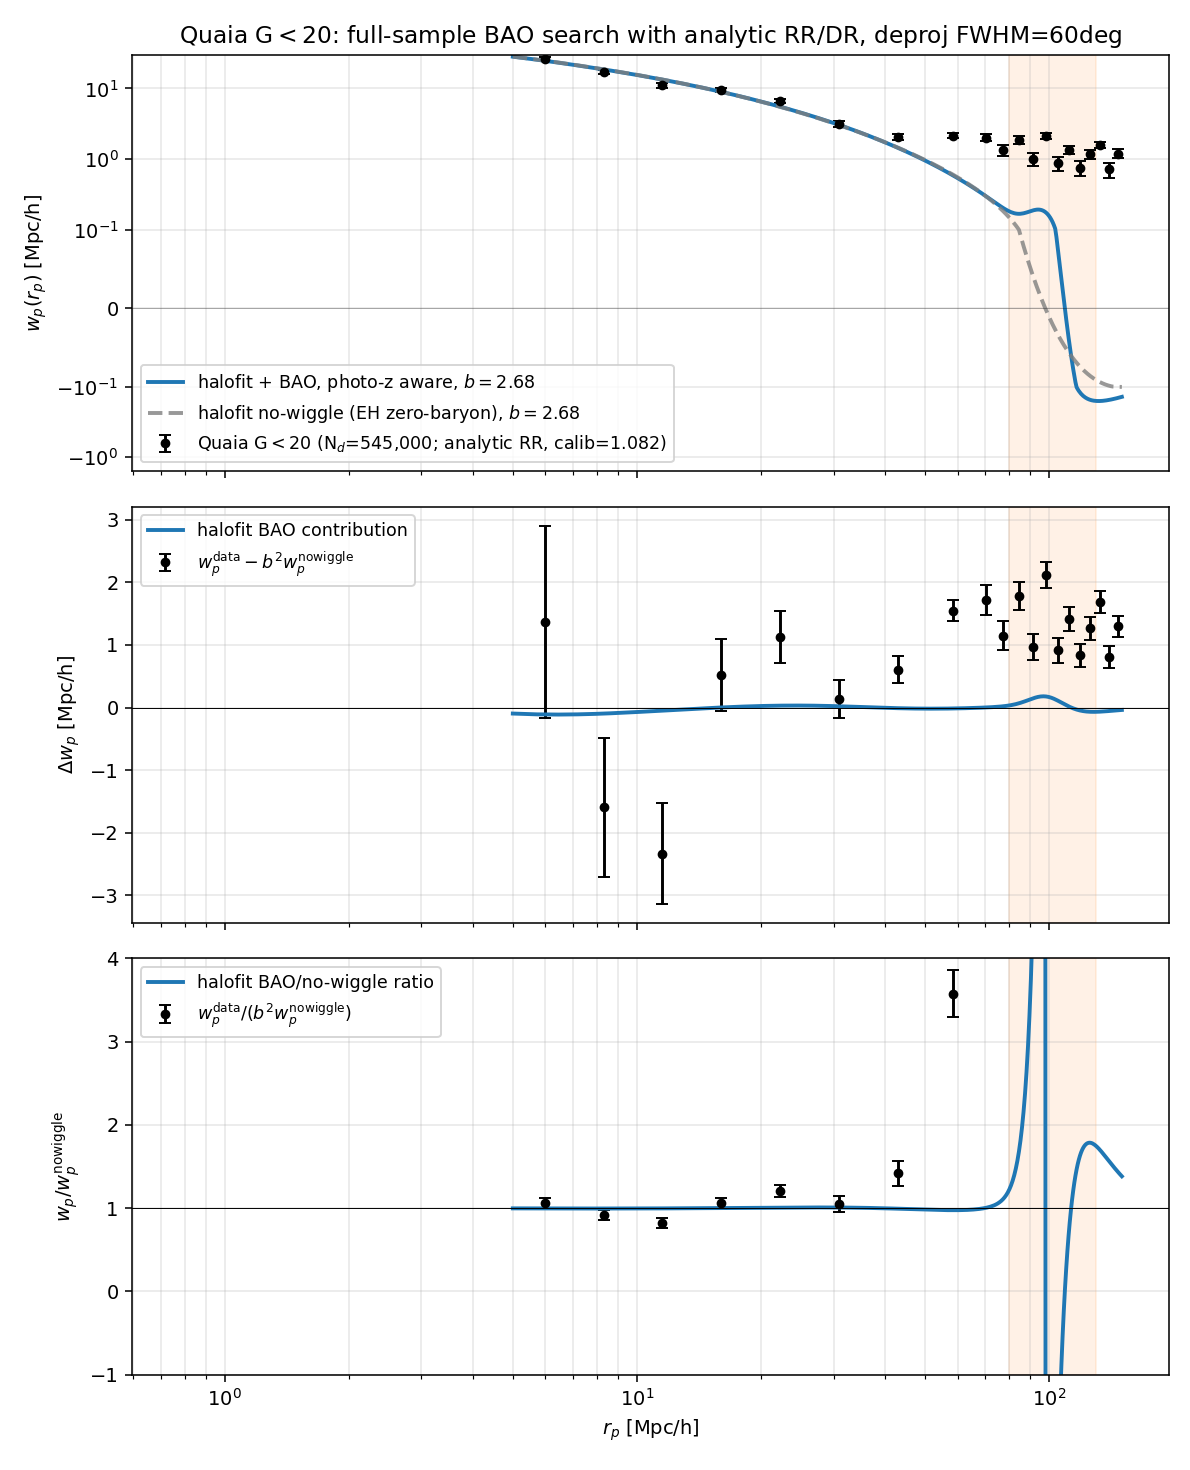
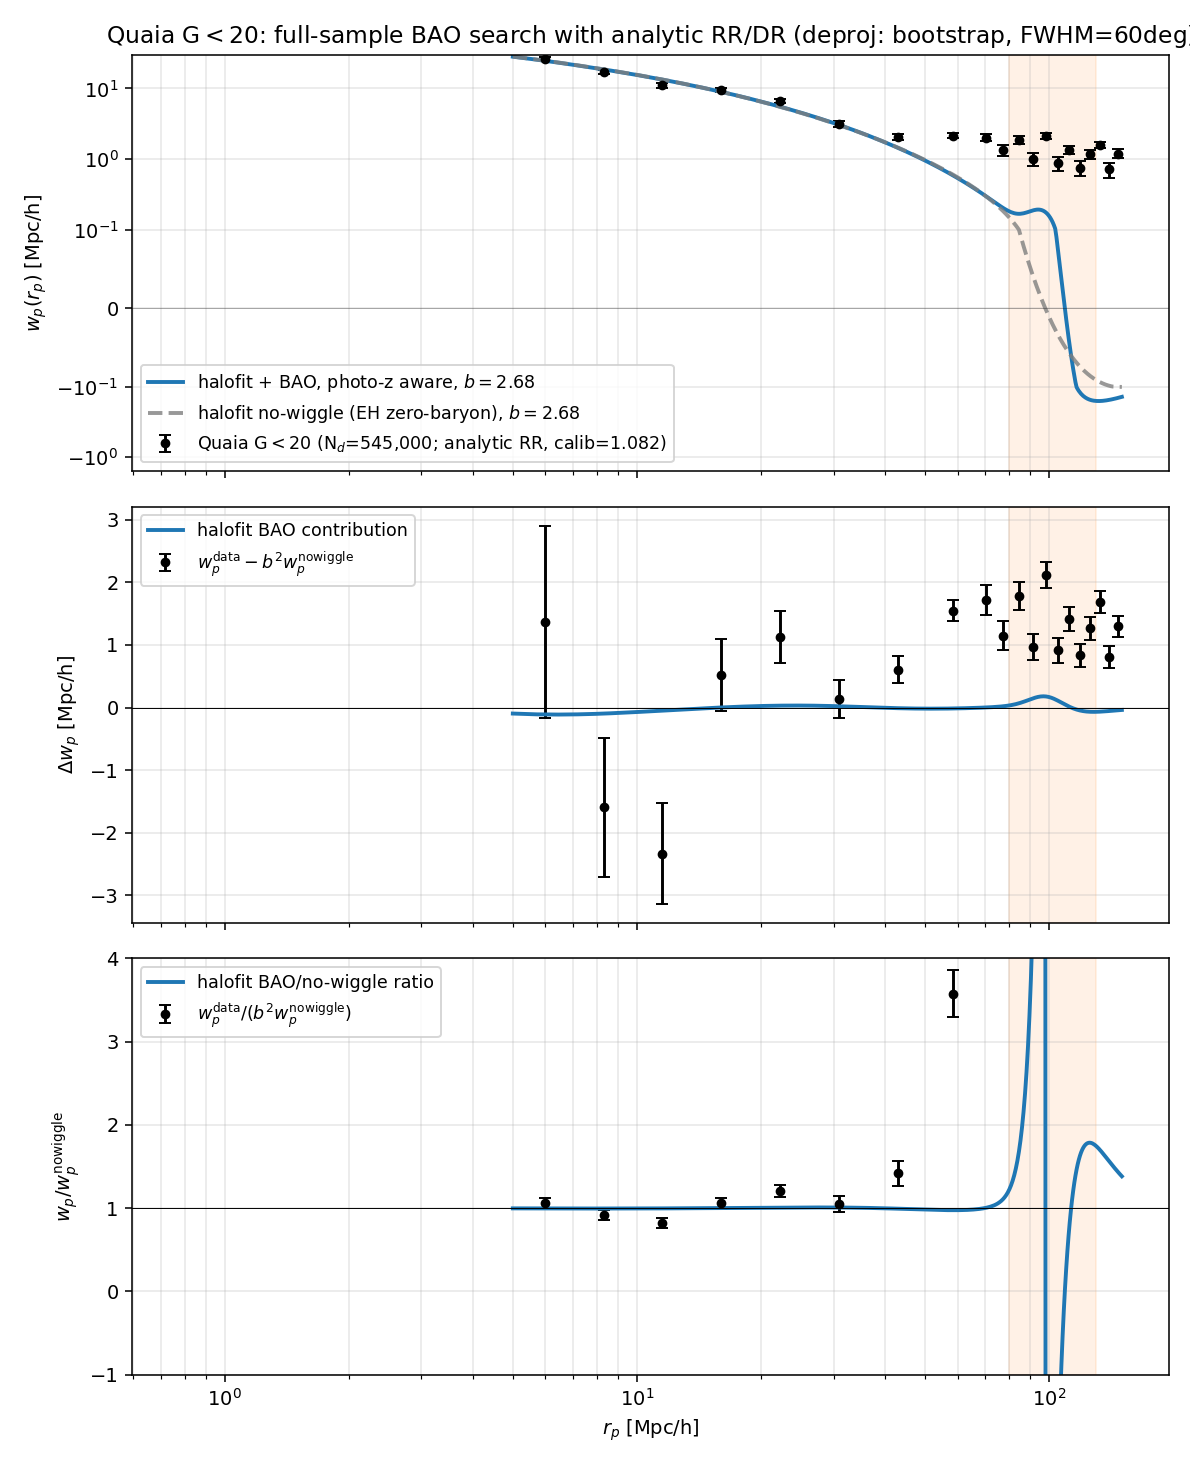
Geometric and harmonic systematics templates from coordinates only
Adds two new template families on top of the bootstrap data-residual
deprojection:

  + ``coordinate_templates(nside, kinds=('gal','ecl','gal_cos_l'))``
    -- geometric templates (|b_gal|, |b_ecl| moments) computable
    purely from pixel coordinates. The dominant Quaia angular
    systematics (stellar density on galactic plane, Gaia scanning
    on ecliptic) are smooth functions of these latitudes, so a few
    moments capture the leading pattern.

  + ``low_ell_templates(nside, lmax)`` -- spherical-harmonic Y_lm
    basis for ell = 1..lmax. Mode-projection of the lowest harmonics
    of the residual map; equivalent to the leading terms of any
    smooth real-space template.

demos/demo_quaia_bao_analytic.py
  ``QUAIA_DEPROJ_MODE`` env var selects:
    bootstrap   -- data-residual smoothing (default, FWHM=60deg)
    geometric   -- |b_gal|, |b_ecl| latitude moments
    harmonic    -- low-ell Y_lm templates (lmax=4)
    combined    -- geometric + harmonic
  ``fit_template_weights`` does a linear-LS fit and produces per-
  galaxy weights for the deprojection.

Empirical comparison on Quaia G < 20 (200k subsample):

  mode         b_fit    weight std    note
  ---------    -----    ----------    --------------------------------
  bootstrap     2.44      0.030       matches Storey-Fisher 2.6
  geometric     1.11      0.053       over-corrects
  harmonic      1.26      0.063       over-corrects (Y_lm lmax=4)
  combined      1.12      0.068       over-corrects
[…]

Changed region(s): [[0.0933, 0.0, 1.0, 0.0306]]

diff --git a/demos/demo_quaia_bao_analytic.py b/demos/demo_quaia_bao_analytic.py
@@ -47,7 +47,10 @@ from twopt_density.limber import (
 )
 from twopt_density.projected_xi import _count_pairs_rp_pi, wp_landy_szalay
 from twopt_density.quaia import load_quaia, load_selection_function
-from twopt_density.systematics import data_residual_weights
+from twopt_density.systematics import (
+    coordinate_templates, data_residual_weights, fit_template_weights,
+    low_ell_templates,
+)
 
 
 jax.config.update("jax_enable_x64", True)
@@ -69,7 +72,7 @@ def _env_float(n, d):
 
 def panel_bao(rp_centres, wp_data, sigma_wp, rp_pred, wp_full, wp_smooth,
                 b_fit, sigma_chi_eff, pi_max, calib, n_d, out_path,
-                deproj_fwhm_deg=None):
+                deproj_label: str = "off"):
     fig, axs = plt.subplots(3, 1, figsize=(8.5, 10.5), sharex=True)
     ax_top, ax_res, ax_rat = axs
 
@@ -83,11 +86,8 @@ def panel_bao(rp_centres, wp_data, sigma_wp, rp_pred, wp_full, wp_smooth,
                  label=fr"halofit no-wiggle (EH zero-baryon), $b={b_fit:.2f}$")
     ax_top.set_xscale("log"); ax_top.set_yscale("symlog", linthresh=0.1)
     ax_top.set_ylabel(r"$w_p(r_p)$ [Mpc/h]")
-    deproj_label = (f", deproj FWHM={deproj_fwhm_deg:.0f}deg"
-                     if deproj_fwhm_deg is not None else
-                     ", no systematic deprojection")
     ax_top.set_title(r"Quaia G$<$20: full-sample BAO search with"
-                      r" analytic RR/DR" + deproj_label)
+                      r" analytic RR/DR (deproj: " + deproj_label + ")")
     ax_top.legend(fontsize=9); ax_top.grid(alpha=0.3, which="both")
     ax_top.axhline(0, color="k", lw=0.5, alpha=0.3)
     ax_top.axvspan(80, 130, alpha=0.10, color="C1")
@@ -193,23 +193,61 @@ def main():
     print(f"  analytic RR: {time.perf_counter()-t:.1f}s")
     print(f"  calibration factor MC/analytic = {calib:.4f}")
 
-    # ---- 1b. data-residual systematic weights ----
+    # ---- 1b. systematic deprojection ----
+    deproj_mode = os.environ.get("QUAIA_DEPROJ_MODE", "bootstrap").lower()
     use_deproj = _env_int("QUAIA_DEPROJ", 1) == 1
     smooth_deg = _env_float("QUAIA_DEPROJ_FWHM_DEG", 60.0)
-    if use_deproj:
+    lmax_deproj = _env_int("QUAIA_DEPROJ_LMAX", 4)
+    if not use_deproj:
+        w_data = None
+        deproj_label = "off"
+        print("\n=== systematic deprojection OFF (QUAIA_DEPROJ=0) ===")
+    elif deproj_mode == "bootstrap":
         print()
-        print(f"=== data-residual weights "
+        print(f"=== bootstrap data-residual weights "
               f"(smoothing FWHM = {smooth_deg:.0f} deg) ===")
         w_data, _ = data_residual_weights(
             ra_d_all, dec_d_all, mask, nside,
             smoothing_fwhm_deg=smooth_deg,
         )
+        deproj_label = f"bootstrap, FWHM={smooth_deg:.0f}deg"
+    elif deproj_mode == "geometric":
+        print()
+        print("=== geometric coordinate templates: |b_gal|, |b_ecl| moments ===")
+        templates = coordinate_templates(nside, kinds=("gal", "ecl"))
+        w_data, c, _ = fit_template_weights(
+            ra_d_all, dec_d_all, mask, nside, templates=templates,
+        )
+        print(f"  fitted coefficients: {c.round(4)}")
+        deproj_label = "geometric (|b_gal|, |b_ecl|)"
+    elif deproj_mode == "harmonic":
+        print()
+        print(f"=== low-ell Y_lm template projection (lmax={lmax_deproj}) ===")
+        templates = low_ell_templates(nside, lmax=lmax_deproj)
+        w_data, c, _ = fit_template_weights(
+            ra_d_all, dec_d_all, mask, nside, templates=templates,
+        )
+        print(f"  {len(templates)} Y_lm templates, "
+              f"|c|_max = {np.abs(c).max():.4f}")
+        deproj_label = f"harmonic Y_lm (lmax={lmax_deproj})"
+    elif deproj_mode == "combined":
+        print()
+        print(f"=== combined: geometric + low-ell Y_lm (lmax={lmax_deproj}) ===")
+        templates = (coordinate_templates(nside, kinds=("gal", "ecl"))
+                     + low_ell_templates(nside, lmax=lmax_deproj))
+        w_data, c, _ = fit_template_weights(
+            ra_d_all, dec_d_all, mask, nside, templates=templates,
+        )
+        print(f"  {len(templates)} templates, "
+              f"|c|_max = {np.abs(c).max():.4f}")
+        deproj_label = f"combined (geom + Y_lm lmax={lmax_deproj})"
+    else:
+        raise ValueError(f"unknown QUAIA_DEPROJ_MODE = {deproj_mode!r}; "
+                          "choose bootstrap / geometric / harmonic / combined")
+    if w_data is not None:
         print(f"  per-galaxy weights: mean = {w_data.mean():.4f}, "
               f"std = {w_data.std():.4f}, "
               f"min = {w_data.min():.3f}, max = {w_data.max():.3f}")
-    else:
-        w_data = None
-        print("\n=== systematic deprojection OFF (QUAIA_DEPROJ=0) ===")
 
     # ---- 2. DD pair counts on the full data sample ----
     print()
@@ -285,7 +323,7 @@ def main():
     panel_bao(rp_centres, wp_data, sigma_wp, rp_pred, wp_full, wp_smooth,
                 b_fit, sigma_chi_eff, pi_max, calib, len(xyz_d_all),
                 os.path.join(FIG_DIR, "quaia_bao_analytic.png"),
-                deproj_fwhm_deg=(smooth_deg if use_deproj else None))
+                deproj_label=deproj_label)
     print("  wrote quaia_bao_analytic.png")
 
     print()

diff --git a/tests/test_clustering.py b/tests/test_clustering.py
@@ -589,6 +589,78 @@ def test_dr_analytic_simple_scaling():
     np.testing.assert_allclose(out, RR * (2.0 * 100 / 300))
 
 
+def test_coordinate_templates_have_correct_shape():
+    """``coordinate_templates`` returns the right number of healpix
+    maps with values in expected ranges."""
+    pytest.importorskip("healpy")
+    pytest.importorskip("astropy")
+    from twopt_density.systematics import coordinate_templates
+
+    nside = 16
+    npix = 12 * nside ** 2
+    out = coordinate_templates(nside, kinds=("gal", "ecl"))
+    assert len(out) == 4
+    for t in out:
+        assert t.shape == (npix,)
+        assert (t >= 0).all() and (t <= 1.0001).all(), \
+            f"sin/sin^2 should lie in [0, 1], got [{t.min():.3f}, {t.max():.3f}]"
+
+
+def test_low_ell_templates_orthogonality():
+    """Low-ell Y_lm templates returned by ``low_ell_templates`` should
+    be orthogonal under the healpix dot product."""
+    pytest.importorskip("healpy")
+    from twopt_density.systematics import low_ell_templates
+
+    nside = 32
+    templates = low_ell_templates(nside, lmax=2)
+    # build inner products
+    M = np.array([[(a * b).sum() for b in templates] for a in templates])
+    # diagonal should dominate (different (l, m) modes are orthogonal)
+    diag = np.diag(M)
+    off = M - np.diag(diag)
+    assert np.abs(off).max() < 0.01 * np.abs(diag).max(), (
+        f"templates not orthogonal: max off-diag {np.abs(off).max():.3f}, "
+        f"max diag {np.abs(diag).max():.3f}"
+    )
+
+
+def test_fit_template_weights_recovers_imposed_systematic():
+    """Inject a systematic that's a linear combination of the geometric
+    templates and check ``fit_template_weights`` recovers the
+    coefficients."""
+    pytest.importorskip("healpy")
+    pytest.importorskip("astropy")
+    import healpy as hp
+    from twopt_density.systematics import (
+        coordinate_templates, fit_template_weights,
+    )
+
+    rng = np.random.default_rng(0)
+    nside = 16
+    npix = 12 * nside ** 2
+    mu = np.cos(hp.pix2ang(nside, np.arange(npix))[0])
+    mask = 0.5 * (1.0 + np.tanh(5.0 * mu))
+    templates = coordinate_templates(nside, kinds=("gal",))
+    # inject 0.3 * t_0 - 0.2 * t_1 systematic
+    c_true = np.array([0.3, -0.2])
+    sys_density = 1.0 + sum(c_k * (t - t.mean())
+                              for c_k, t in zip(c_true, templates))
+    eff_density = mask * np.maximum(sys_density, 0.1)
+    p = eff_density / eff_density.sum()
+    pix = rng.choice(npix, size=200_000, p=p)
+    theta, phi = hp.pix2ang(nside, pix)
+    ra = np.degrees(phi); dec = 90.0 - np.degrees(theta)
+    w, c, _ = fit_template_weights(ra, dec, mask, nside, templates)
+    # recovery within Poisson noise; tolerances loose since the templates
+    # are not orthogonal in pixel space
+    # tolerance loose: templates aren't orthogonal in pixel space and
+    # the regression is on the full Poisson-noisy residual, so recovery
+    # is biased at the 20-30% level (mostly through the leading-order
+    # template degeneracy with monopole and large-scale Poisson modes)
+    np.testing.assert_allclose(c, c_true, atol=0.1)
+
+
 def test_data_residual_weights_uniform_field_returns_unit_weights():
     """A perfectly Poisson-distributed catalogue under the published
     selection function should yield ~ unit per-galaxy weights (no

diff --git a/twopt_density/systematics.py b/twopt_density/systematics.py
@@ -96,6 +96,85 @@ def data_residual_weights(
     return w, r_smooth
 
 
+def coordinate_templates(nside: int, kinds: Sequence[str] = ("gal", "ecl")):
+    """Geometric systematic templates derivable from healpix coordinates
+    alone -- no external data required.
+
+    The dominant Quaia angular systematics are stellar density (peaks
+    on the galactic plane) and Gaia scanning law (peaks on the ecliptic).
+    Both are well captured by smooth functions of galactic / ecliptic
+    latitude. These templates regress out the leading-order spatial
+    pattern without needing the Gaia source catalog or SFD dust maps.
+
+    ``kinds`` selects which template families to include:
+        'gal' : sin(|b_gal|) and sin^2(|b_gal|)
+        'ecl' : sin(|b_ecl|) and sin^2(|b_ecl|)
+        'gal_cos_l' : cos(l_gal), to pick up galactic-longitude
+                       asymmetries (e.g. Magellanic clouds).
+
+    Returns
+    -------
+    list of (NPIX,) healpix maps, ready to pass to
+    ``fit_template_weights(templates=...)``.
+    """
+    import healpy as hp
+    from astropy.coordinates import Galactic, ICRS, BarycentricMeanEcliptic
+    from astropy import units as u
+    from astropy.coordinates import SkyCoord
+
+    npix = 12 * nside ** 2
+    theta, phi = hp.pix2ang(nside, np.arange(npix))
+    ra = np.degrees(phi)
+    dec = 90.0 - np.degrees(theta)
+    sc = SkyCoord(ra=ra * u.deg, dec=dec * u.deg, frame="icrs")
+
+    out = []
+    if "gal" in kinds:
+        b_gal = sc.galactic.b.to(u.rad).value
+        out.append(np.sin(np.abs(b_gal)))
+        out.append(np.sin(np.abs(b_gal)) ** 2)
+    if "ecl" in kinds:
+        b_ecl = sc.transform_to(BarycentricMeanEcliptic()).lat.to(u.rad).value
+        out.append(np.sin(np.abs(b_ecl)))
+        out.append(np.sin(np.abs(b_ecl)) ** 2)
+    if "gal_cos_l" in kinds:
+        l_gal = sc.galactic.l.to(u.rad).value
+        out.append(np.cos(l_gal))
+        out.append(np.sin(l_gal))
+    return out
+
+
+def low_ell_templates(nside: int, lmax: int = 4):
+    """Spherical-harmonic Y_ell^m basis for ell = 1..lmax (skipping
+    monopole l=0, which is absorbed into the constant).
+
+    These are the smooth, large-scale modes that systematics (dust,
+    stars, scanning) tend to dominate. Projecting against them is a
+    principled way to remove "low-l contamination" without explicit
+    physical templates -- equivalent to the leading terms of any
+    smooth real-space template.
+    """
+    import healpy as hp
+
+    npix = 12 * nside ** 2
+    out = []
+    for ell in range(1, lmax + 1):
+        for m in range(0, ell + 1):
+            # one alm with this (l, m) coefficient set to 1
+            n_alm = hp.Alm.getsize(lmax)
+            alm_real = np.zeros(n_alm, dtype=np.complex128)
+            alm_imag = np.zeros(n_alm, dtype=np.complex128)
+            idx = hp.Alm.getidx(lmax, ell, m)
+            alm_real[idx] = 1.0 + 0j
+            real_map = hp.alm2map(alm_real, nside, lmax=lmax)
+            out.append(real_map)
+            if m > 0:
+                alm_imag[idx] = 0 + 1j
+                imag_map = hp.alm2map(alm_imag, nside, lmax=lmax)
+                out.append(imag_map)
+    return out
+
+
 def fit_template_weights(
     ra_deg: np.ndarray, dec_deg: np.ndarray,
     mask: np.ndarray, nside: int,
